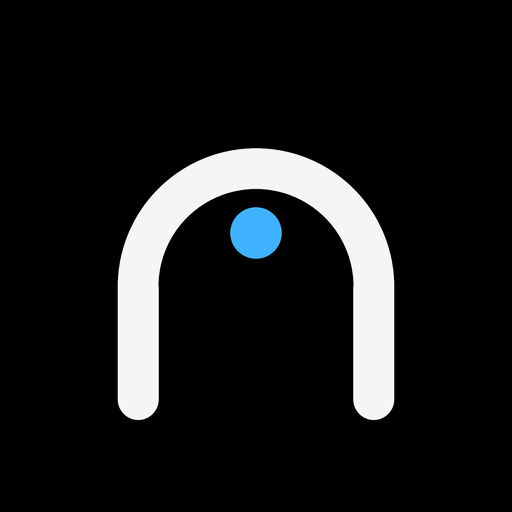
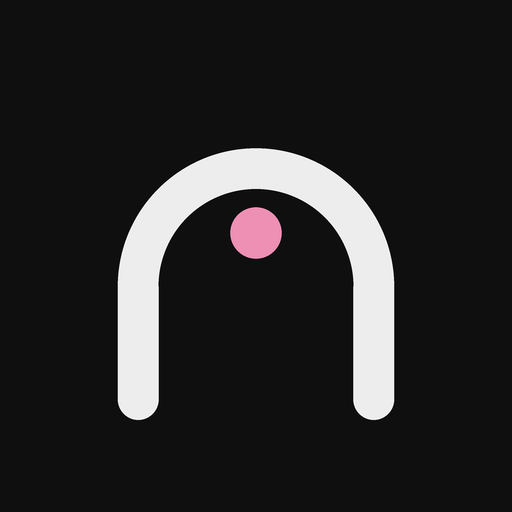
v26: unslop: grafite neutra, accento rosa, barra di stato silenziosa, pulsanti senza bordo, punto apex come firma
Claude-Session: https://claude.ai/code/session_01X4gRSprddSRZNLrU3V1q9a

Changed region(s): [[0.4375, 0.4062, 0.5625, 0.5312]]

diff --git a/index.html b/index.html
@@ -10,31 +10,31 @@
 <link rel="icon" href="icon-192.png">
 <link href="https://fonts.googleapis.com/css2?family=Exo+2:wght@600;700;800&family=Barlow+Condensed:wght@600;700;800&family=Barlow:wght@500;600;700&display=swap" rel="stylesheet">
 <style>
-html,body{margin:0;height:100%;background:#000;color:#fff;overflow:hidden;touch-action:none;-webkit-user-select:none;user-select:none;font-family:"Barlow Condensed","Roboto Condensed",sans-serif}
+html,body{margin:0;height:100%;background:#0f0f10;color:#ededed;overflow:hidden;touch-action:none;-webkit-user-select:none;user-select:none;font-family:"Barlow Condensed","Roboto Condensed",sans-serif}
 #app{position:fixed;top:0;left:0;right:0;bottom:0;width:100%;height:100%;display:flex;align-items:stretch;justify-content:center;box-sizing:border-box;padding:env(safe-area-inset-top) env(safe-area-inset-right) env(safe-area-inset-bottom) env(safe-area-inset-left)}
 #stage{flex:1 1 auto;min-width:0;min-height:0;display:flex;align-items:center;justify-content:center;overflow:hidden}
-canvas{display:block;background:#000;touch-action:none}
-#demo{display:none;flex-direction:column;align-items:stretch;width:92px;padding:8px;box-sizing:border-box;align-self:stretch;justify-content:center;background:#000;border-left:1px solid #26313b}
+canvas{display:block;background:#0f0f10;touch-action:none}
+#demo{display:none;flex-direction:column;align-items:stretch;width:92px;padding:8px;box-sizing:border-box;align-self:stretch;justify-content:center;background:#19191b;border-left:1px solid rgba(237,237,237,.09)}
 #demo.on{display:flex}
 #demo>*+*{margin-top:8px}
-#demo button{font:700 20px "Barlow",sans-serif;min-height:50px;padding:0 4px;border-radius:6px;border:1.5px solid #26313b;background:transparent;color:#fff}
-#demo .go{background:transparent;color:#4cb8ff;border-color:#3fb2ff}
-#demo small{color:#9aa3ad;font:600 13px "Barlow",sans-serif;text-align:center}
+#demo button{font:600 18px "Barlow",sans-serif;min-height:44px;padding:0 4px;border-radius:8px;border:0;background:#232325;color:#ededed}
+#demo .go{background:#ededed;color:#0f0f10}
+#demo small{color:#85858b;font:500 13px "Barlow",sans-serif;text-align:center}
 @media (orientation:portrait){#app{flex-direction:column}#demo>*+*{margin-top:0;margin-left:8px}#demo{flex-direction:row;flex-wrap:wrap;justify-content:center;width:auto;align-self:stretch}}
 </style>
 </head>
 <body>
-<div id="loading" style="position:fixed;top:0;left:0;right:0;bottom:0;display:flex;align-items:center;justify-content:center;color:#ffd21a;font:700 22px sans-serif;text-align:center;padding:20px">ApexLap<br>caricamento…<br><small style="color:#888;font-size:15px">se resta così, chiudi e riapri con internet</small></div>
-<div id="ren" style="display:none;position:fixed;top:0;left:0;right:0;bottom:0;background:rgba(0,0,0,.88);z-index:5;align-items:center;justify-content:center;flex-direction:column;padding:16px;box-sizing:border-box">
-  <div style="color:#ffd21a;font:800 26px 'Barlow Condensed',sans-serif;margin-bottom:12px">Nome della pista</div>
-  <input id="renIn" maxlength="24" autocomplete="off" style="font:700 26px 'Barlow Condensed',sans-serif;width:min(460px,90vw);padding:10px 14px;border-radius:10px;border:2px solid #ffd21a;background:#111;color:#fff">
-  <div style="display:flex;margin-top:14px"><button id="renNo" style="font:700 22px 'Barlow Condensed',sans-serif;min-height:54px;min-width:140px;border-radius:10px;border:2px solid #555;background:#1b1b1b;color:#fff;margin-right:12px">ANNULLA</button><button id="renOk" style="font:700 22px 'Barlow Condensed',sans-serif;min-height:54px;min-width:140px;border-radius:10px;border:0;background:#ffd21a;color:#111">SALVA</button></div>
+<div id="loading" style="position:fixed;top:0;left:0;right:0;bottom:0;display:flex;align-items:center;justify-content:center;color:#ededed;font:600 22px 'Barlow',sans-serif;text-align:center;padding:20px">ApexLap<br><small style="color:#a1a1a6;font:500 15px 'Barlow',sans-serif">caricamento…<br>se resta così, chiudi e riapri con internet</small></div>
+<div id="ren" style="display:none;position:fixed;top:0;left:0;right:0;bottom:0;background:rgba(15,15,16,.94);z-index:5;align-items:center;justify-content:center;flex-direction:column;padding:16px;box-sizing:border-box">
+  <div style="color:#a1a1a6;font:500 15px 'Barlow',sans-serif;margin-bottom:8px">Nome della pista</div>
+  <input id="renIn" maxlength="24" autocomplete="off" style="font:600 24px 'Barlow',sans-serif;width:min(460px,90vw);padding:10px 14px;border-radius:10px;border:1px solid rgba(237,237,237,.12);background:#19191b;color:#ededed;outline:none;caret-color:#ee8fb4">
+  <div style="display:flex;margin-top:16px"><button id="renNo" style="font:600 17px 'Barlow',sans-serif;height:40px;min-width:120px;border-radius:8px;border:0;background:transparent;color:#ededed;margin-right:8px">Annulla</button><button id="renOk" style="font:600 17px 'Barlow',sans-serif;height:40px;min-width:120px;border-radius:8px;border:0;background:#ededed;color:#0f0f10">Salva</button></div>
 </div>
 <div id="app">
   <div id="stage"><canvas id="scr" aria-label="Cronometro"></canvas></div>
   <div id="demo">
     <small>DEMO</small>
-    <button id="dGo" class="go">PARTI</button>
+    <button id="dGo" class="go">Parti</button>
     <button id="dFast" aria-label="Più veloce">+</button>
     <small id="dPace">ritmo 100%</small>
     <button id="dSlow" aria-label="Più lento">−</button>
@@ -76,7 +76,7 @@ class LapTimer{
 }
 
 // ===================== memoria =====================
-const VERSION='v25';const LS='ftt-app-v1';let saved={tracks:[],view:0,minLap:8,source:'phone',session:null,showSpeed:false,theme:'auto'};
+const VERSION='v26';const LS='ftt-app-v1';let saved={tracks:[],view:0,minLap:8,source:'phone',session:null,showSpeed:false,theme:'auto'};
 try{const j=JSON.parse(localStorage.getItem(LS)||'null');if(j)saved={...saved,...j}}catch(e){}
 const persist=()=>{try{localStorage.setItem(LS,JSON.stringify(saved))}catch(e){}};
 saved.tracks.forEach((t,i)=>{if(!t.name)t.name='Pista '+(i+1)});
@@ -221,7 +221,7 @@ function setSource(src){saved.source=src;persist();origin=null;dev.hist=[];lt.cl
   else{$('demo').classList.remove('on');demo.riding=false;
     if(src==='ble'){if(!ble.on)startPhoneGps();bleConnect()}else{bleClose();startPhoneGps()}}
   setTimeout(resize,30)}
-$('dGo').onclick=()=>{demo.riding=!demo.riding;$('dGo').textContent=demo.riding?'STOP':'PARTI';$('dGo').classList.toggle('go',!demo.riding)};
+$('dGo').onclick=()=>{demo.riding=!demo.riding;$('dGo').textContent=demo.riding?'Ferma':'Parti';$('dGo').classList.toggle('go',!demo.riding)};
 $('dFast').onclick=()=>{demo.pace=Math.min(1.15,demo.pace+0.02);$('dPace').textContent='ritmo '+Math.round(demo.pace*100)+'%'};
 $('dSlow').onclick=()=>{demo.pace=Math.max(0.85,demo.pace-0.02);$('dPace').textContent='ritmo '+Math.round(demo.pace*100)+'%'};
 
@@ -249,16 +249,16 @@ async function goFull(){if(triedFull)return;triedFull=true;try{await document.do
 // ===================== disegno =====================
 const cv=$('scr'),cx=cv.getContext('2d');
 // SERA: nero, testi chiari (niente abbagliamento al buio). GIORNO: bianco, testi neri (vince sui riflessi al sole)
-const NIGHT={bg:'#000000',surface:'#000000',line:'#26313b',frame:'#2d7fbf',fg:'#ffffff',dim:'#8d99a5',faint:'#56616b',off:'#1d252d',
-  accent:'#3fb2ff',accentDown:'#1f8fd6',accentTxt:'#4cb8ff',onAccent:'#001018',
-  gain:'#22d36b',gainTxt:'#2fe07a',gainDeep:'#0b7a37',gainWash:'rgba(34,211,107,.10)',
-  loss:'#ff453a',lossTxt:'#ff6b61',lossDeep:'#a3160e',
-  btn:'#000000',btnDown:'rgba(63,178,255,.16)',chart:'#3a4652',selWash:'rgba(63,178,255,.12)'};
-const DAY={bg:'#ffffff',surface:'#ffffff',line:'#cfd7df',frame:'#1f78c4',fg:'#05080b',dim:'#46525e',faint:'#87929d',off:'#e1e6eb',
-  accent:'#0a74c9',accentDown:'#075a9c',accentTxt:'#0a63ad',onAccent:'#ffffff',
-  gain:'#15a046',gainTxt:'#0b7d38',gainDeep:'#0b7a37',gainWash:'rgba(21,160,70,.10)',
-  loss:'#d92a20',lossTxt:'#c0221b',lossDeep:'#a3160e',
-  btn:'#ffffff',btnDown:'rgba(10,116,201,.12)',chart:'#aab4be',selWash:'rgba(10,116,201,.10)'};
+const NIGHT={bg:'#0f0f10',surface:'#19191b',line:'rgba(237,237,237,.09)',frame:'#a1a1a6',fg:'#ededed',dim:'#a1a1a6',faint:'#85858b',off:'#29292c',
+  accent:'#ee8fb4',accentDown:'#d97aa0',accentTxt:'#f2a3c3',onAccent:'#1a0d12',warn:'#d9a441',
+  gain:'#4cc38a',gainTxt:'#5fd49a',gainDeep:'#17784a',gainWash:'rgba(76,195,138,.08)',
+  loss:'#e5484d',lossTxt:'#ff6369',lossDeep:'#a3262a',
+  btn:'#232325',btnDown:'#2e2e31',chart:'#3a3a3e',selWash:'rgba(237,237,237,.06)'};
+const DAY={bg:'#fafafa',surface:'#ffffff',line:'rgba(23,23,23,.10)',frame:'#525252',fg:'#171717',dim:'#525252',faint:'#737373',off:'#e4e4e7',
+  accent:'#c94f84',accentDown:'#b2416f',accentTxt:'#b23d70',onAccent:'#ffffff',warn:'#b45309',
+  gain:'#16a34a',gainTxt:'#15803d',gainDeep:'#15803d',gainWash:'rgba(22,163,74,.08)',
+  loss:'#dc2626',lossTxt:'#b91c1c',lossDeep:'#991b1b',
+  btn:'#ececee',btnDown:'#e0e0e3',chart:'#c4c4c8',selWash:'rgba(23,23,23,.05)'};
 // altezza del sole sull'orizzonte (gradi) per posizione e ora: serve alla modalità AUTO
 function sunElev(lat,lon,d){const r=Math.PI/180,n=d.getTime()/86400000+2440587.5-2451545;
   const Lm=(280.46+0.9856474*n)%360,g=((357.528+0.9856003*n)%360)*r,lam=(Lm+1.915*Math.sin(g)+0.02*Math.sin(2*g))*r,eps=(23.439-0.0000004*n)*r;
@@ -289,7 +289,7 @@ addEventListener('resize',resize);document.addEventListener('fullscreenchange',(
 // numeri in Exo 2 (sportivo, da cruscotto); Barlow Condensed resta come riserva se il font non è ancora scaricato
 const FN=(s,w=700)=>`${w} ${s}px "Exo 2","Barlow Condensed","Roboto Condensed","Arial Narrow",sans-serif`;
 try{['600','700','800'].forEach(w=>document.fonts.load(w+' 40px "Exo 2"'))}catch(e){}
-const FL=(s,w=600)=>`${w} ${s}px "Barlow","Roboto","Helvetica Neue",sans-serif`;
+const FL=(s,w=500)=>`${Math.min(w,600)} ${s}px "Barlow","Roboto","Helvetica Neue",sans-serif`;
 const F=FN;
 let hits=[],pressed=null;
 function txt(t,x,y,size,col,al='left',w=600,fam='l'){cx.font=fam==='n'?FN(size,w):FL(size,w);cx.fillStyle=col;cx.textAlign=al;cx.textBaseline='middle';cx.fillText(t,x,y)}
@@ -332,11 +332,12 @@ function icon(name,x,y,s,col){cx.save();cx.translate(x,y);cx.strokeStyle=col;cx.
 function panel(x,y,w,h,label,labelR,col,colR){const lc=(col&&col!==C.line&&col!==C.frame)?col:C.dim;
   if(label)txt(label,x+6,y+4,12,lc,'left',600);if(labelR)txt(labelR,x+w-6,y+4,12,colR||lc,'right',600)}
 function button(id,x,y,w,h,label,opt={}){const down=pressed===id,dis=opt.disabled;
-  let bg=down?C.btnDown:null,fg=dis?C.faint:C.fg,stroke=dis?C.off:C.line;
-  if(opt.primary&&!dis){stroke=C.accent;fg=C.accentTxt}
-  else if(opt.danger){stroke=C.loss;fg=C.lossTxt}
-  else if(opt.ghost){stroke=null}
-  rr(x,y,w,h,6,bg,stroke,1.5);
+  let bg=down?C.btnDown:C.btn,fg=dis?C.faint:C.fg;
+  if(opt.primary&&!dis){bg=down?C.dim:C.fg;fg=C.bg}
+  else if(opt.danger){fg=C.lossTxt}
+  else if(opt.ghost){bg=down?C.btnDown:null}
+  if(dis&&!opt.ghost)bg=C.surface;
+  if(bg)rr(x,y,w,h,8,bg);
   const size=opt.size||17,ic=opt.icon,isz=Math.min(18,h*0.42);
   if(opt.sub){const cxm=x+w/2;if(ic)icon(ic,cxm,y+h*0.32,isz,dis?C.faint:C.accentTxt);
     fitT(label,cxm,ic?y+h*0.62:y+h/2-7,size,fg,w-12,'center',700);fitT(opt.sub,cxm,ic?y+h*0.84:y+h/2+11,12,C.dim,w-12,'center',500)}
@@ -344,9 +345,9 @@ function button(id,x,y,w,h,label,opt={}){const down=pressed===id,dis=opt.disable
     if(ic)icon(ic,sx+isz/2,y+h/2,isz,fg);if(label)fitT(label,sx+(ic?isz+gap:0),y+h/2+1,size,fg,w-(ic?isz+22:14),'left',700)}
   hits.push({id,x,y,w,h,act:opt.act,dis})}
 // controllo segmentato (opzioni alternative)
-function segmented(id,x,y,w,h,opts,cur,set){const n=opts.length,sw=w/n;rr(x,y,w,h,6,null,C.line,1.5);
-  opts.forEach(([l,v],k)=>{const sx=x+k*sw,sel=cur===v;if(sel)rr(sx+2,y+2,sw-4,h-4,5,C.selWash,C.accent,1.5);else if(k&&cur!==opts[k-1][1])cx.fillStyle=C.line,cx.fillRect(sx,y+7,1,h-14);
-    fitT(l,sx+sw/2,y+h/2+1,15,sel?C.accentTxt:C.dim,sw-8,'center',700);hits.push({id:id+k,x:sx,y,w:sw,h,act:()=>set(v)})})}
+function segmented(id,x,y,w,h,opts,cur,set){const n=opts.length,sw=w/n;rr(x,y,w,h,8,C.surface);
+  opts.forEach(([l,v],k)=>{const sx=x+k*sw,sel=cur===v;if(sel)rr(sx+3,y+3,sw-6,h-6,6,C.btn);
+    fitT(l,sx+sw/2,y+h/2+1,15,sel?C.accentTxt:C.dim,sw-8,'center',sel?600:500);hits.push({id:id+k,x:sx,y,w:sw,h,act:()=>set(v)})})}
 
 const pad2=v=>String(v).padStart(2,'0');
 // tempo sul giro: 1:24.234 (millesimi) oppure 1:24.23 (centesimi) a scelta nelle opzioni
@@ -364,25 +365,25 @@ const sgn=v=>(v<0?'−':'+')+Math.abs(v).toFixed(2);
 const SB=24,TB=36;
 function statusBar(center,lapTxt){
   hline(0,SB-1,W,C.line);
-  const col=!dev.fix?C.loss:dev.hAcc>8?C.accentTxt:C.gainTxt;
+  const col=!dev.fix?C.lossTxt:dev.hAcc>8?C.warn:C.dim;
   for(let i=0;i<4;i++){const h=4+i*3,on=dev.fix&&dev.sats>=[1,5,9,12][i];cx.fillStyle=on?col:C.off;cx.fillRect(8+i*5,19-h,3,h)}
-  txt(dev.fix?`±${Math.round(dev.hAcc)} m`:'Nessun GPS',32,12,13,col,'left',600);
+  txt(dev.fix?`±${Math.round(dev.hAcc)} m`:'Nessun GPS',32,12,13,col,'left',500);
   let lx=32+(cx.measureText(dev.fix?`±${Math.round(dev.hAcc)} m`:'Nessun GPS').width)+10;
-  if(saved.source==='demo'){const open=$('demo').classList.contains('on');rr(lx,5,42,15,4,open?C.accent:null,C.accentTxt);txt('Demo',lx+21,12.5,12,open?C.onAccent:C.accentTxt,'center',700);
+  if(saved.source==='demo'){const open=$('demo').classList.contains('on');txt('Demo',lx+4,12,13,open?C.fg:C.accentTxt,'left',600);if(open)hline(lx+4,19,30,C.accentTxt);
     hits.push({id:'demoBadge',x:lx-6,y:0,w:56,h:SB+4,act:toggleDemoPanel});lx+=50}
-  if(saved.source==='ble'){const lbl=ble.on?(ble.hz?ble.hz+' Hz':'Esterno'):'Collega GPS',col2=ble.on?C.gainTxt:C.accentTxt;cx.font=FL(12,700);const bw=cx.measureText(lbl).width+12;
-    rr(lx,5,bw,15,4,null,col2);txt(lbl,lx+bw/2,12.5,12,col2,'center',700);
+  if(saved.source==='ble'){const lbl=ble.on?(ble.hz?ble.hz+' Hz':'Esterno'):'Collega GPS',col2=ble.on?C.dim:C.accentTxt;cx.font=FL(13,600);const bw=cx.measureText(lbl).width+8;
+    txt(lbl,lx+4,12,13,col2,'left',600);
     if(!ble.on)hits.push({id:'bleBadge',x:lx-6,y:0,w:bw+12,h:SB+4,act:bleConnect});lx+=bw+8}
-  if(center)fitT(center,W/2,12,14,C.fg,Math.max(60,W-2*Math.max(lx,110)),'center',700);
+  if(center)fitT(center,W/2,12,14,C.fg,Math.max(60,W-2*Math.max(lx,110)),'center',600);
   let rx=W-8;
   if(dev.battery!=null){const b=Math.round(dev.battery);rr(rx-22,7,20,10,2,null,C.dim);cx.fillStyle=C.dim;cx.fillRect(rx-2,10,2,4);
-    cx.fillStyle=b<20?C.loss:dev.charging?C.gainTxt:C.fg;cx.fillRect(rx-20,9,16*b/100,6);rx-=28}
+    cx.fillStyle=b<20?C.loss:C.dim;cx.fillRect(rx-20,9,16*b/100,6);rx-=28}
   const dt=new Date(),hm=pad2(dt.getHours())+':'+pad2(dt.getMinutes());num(hm,rx,12.5,14,C.dim,'right',600);rx-=numMetrics(hm,14,600).tot+12;
   if(lapTxt){num(lapTxt,rx,12.5,16,C.fg,'right',700)}}
 // intestazione delle sottoschermate: ‹ titolo
 function header(title,backAct,right){
   button('back',4,SB+4,40,32,'',{ghost:true,icon:'back',act:backAct});
-  txt(title,46,SB+20,20,C.fg,'left',700);
+  txt(title,46,SB+20,18,C.fg,'left',600);
   if(right)txt(right,W-12,SB+20,13,C.dim,'right',500);
   hline(0,SB+40,W,C.line)}
 // barra schede in basso (riepilogo)
@@ -396,11 +397,11 @@ function tabBar(){const th=TB,y=H-th,tw=W/3,n=lt.laps.length;hline(0,y,W,C.line)
     hits.push({id,x,y,w:tw,h:th,act})})}
 // ---------- avvio ----------
 function drawBoot(){statusBar('','');
-  txt('ApexLap',W/2,70,44,C.fg,'center',800,'n');txt('Cronometro GPS da pista',W/2,102,16,C.dim,'center',500);
+  txt('ApexLap',W/2,70,40,C.fg,'center',600);txt('Cronometro GPS da pista',W/2,102,16,C.dim,'center',500);
   txt(VERSION,W-8,H-10,11,C.faint,'right',500);
   if(dev.geoErr){fitT(dev.geoErr,W/2,140,16,C.loss,W-20,'center',600);
     button('demo1',W/2-110,166,220,46,'Prova in demo',{primary:true,icon:'play',act:()=>setSource('demo')})}
-  else{const p=dev.lastT?Math.max(0.15,Math.min(1,25/dev.hAcc)):((now()-dev.startedAt)/900%1);rr(W/2-100,132,200,4,2,C.off);rr(W/2-100,132,Math.max(8,200*p),4,2,C.gain);
+  else{const p=dev.lastT?Math.max(0.15,Math.min(1,25/dev.hAcc)):((now()-dev.startedAt)/900%1);rr(W/2-100,132,200,4,2,C.off);rr(W/2-100,132,Math.max(8,200*p),4,2,C.accent);
     fitT(dev.lastT?`Precisione ±${Math.round(dev.hAcc)} m, serve meno di 25 m`:'Cerco il segnale GPS, stai all\'aperto',W/2,152,14,C.dim,W-20,'center',500);
     button('demo2',W/2-60,180,120,36,'Demo',{icon:'play',act:()=>setSource('demo'),size:15})}}
 
@@ -414,7 +415,7 @@ function drawChart(x,y,w,h){const L=lt.laps.slice(-12),n=L.length;if(!n)return;
 
 // ---------- riepilogo da fermo ----------
 function drawReady(){statusBar(trackName()||'','');const n=lt.laps.length,top=SB,bot=H-TB,tk=saved.tracks[dev.track];
-  if(!lt.line){icon('flag',W/2,top+34,26,C.accentTxt);txt('Nessun traguardo',W/2,top+64,22,C.fg,'center',700);
+  if(!lt.line){icon('flag',W/2,top+34,26,C.dim);txt('Nessun traguardo',W/2,top+64,22,C.fg,'center',700);
     txt('Fermati sulla linea e impostalo, oppure scegli una pista salvata',W/2,top+86,13,C.dim,'center',500);
     const hasT=saved.tracks.length,bw=hasT?Math.min(200,(W-40)/2):Math.min(260,W-40),x0=hasT?W/2-bw-6:W/2-bw/2;
     button('setline',x0,top+108,bw,44,'Imposta traguardo',{primary:true,icon:'flag',act:startWizard,size:16});
@@ -462,8 +463,8 @@ function drawRace(){
     hits.push({id:'flash',x:0,y:SB,w:W,h:H-SB,act:()=>dev.flashUntil=0});return}
   let top=SB;
   if(lost){cx.fillStyle=C.lossDeep;cx.fillRect(0,SB,W,24);fitT('GPS perso: tempi sospesi finché torna il segnale',W/2,SB+12,13,'#ffffff',W-20,'center',700);top+=24}
-  if(!lt.line){icon('flag',W/2,top+56,28,C.accentTxt);txt('Nessun traguardo',W/2,top+92,24,C.fg,'center',700);txt('Fermati per impostarlo',W/2,top+116,14,C.dim,'center',500);return}
-  if(!lt.inLap){icon('arrowR',W/2,top+60,34,C.accentTxt);txt('Passa sul traguardo',W/2,top+100,28,C.fg,'center',700);txt('Il giro parte appena lo attraversi',W/2,top+126,14,C.dim,'center',500);return}
+  if(!lt.line){icon('flag',W/2,top+56,28,C.dim);txt('Nessun traguardo',W/2,top+92,24,C.fg,'center',700);txt('Fermati per impostarlo',W/2,top+116,14,C.dim,'center',500);return}
+  if(!lt.inLap){icon('arrowR',W/2,top+60,34,C.dim);txt('Passa sul traguardo',W/2,top+100,28,C.fg,'center',700);txt('Il giro parte appena lo attraversi',W/2,top+126,14,C.dim,'center',500);return}
   const view=saved.view,cellsY=184,valid=lt.deltaValid,d=lt.delta,dc=d<0?C.gainTxt:C.lossTxt;
   ledBar(top+6,d,valid);
   const py=top+28,ph=cellsY-py,mid=py+ph/2+4;
@@ -508,7 +509,7 @@ function drawLaps(){statusBar('','');const L=lt.laps,n=L.length;
   for(let r=0;r<n;r++){const y=top+r*rh-off;if(y+rh<top||y>H)continue;const i=n-1-r,ms=L[i],isB=i+1===lt.bestNo,cy=y+rh/2;
     if(isB){cx.fillStyle=C.gainWash;cx.fillRect(0,y,W,rh)}
     num(String(i+1),36,cy,15,C.dim,'right',600);num(fmt(ms),48,cy,21,isB?C.gainTxt:C.fg,'left',700);
-    if(i===n-1&&!isB){const tw=numMetrics(fmt(ms),21,700).tot;rr(58+tw,cy-8,46,16,3,null,C.dim);txt('Ultimo',81+tw,cy+0.5,11,C.dim,'center',600)}
+    if(i===n-1&&!isB){const tw=numMetrics(fmt(ms),21,700).tot;txt('ultimo',58+tw,cy+1,12,C.faint,'left',500)}
     if(isB)txt('Migliore',W-14,cy,13,C.gainTxt,'right',700);else num(gap((ms-bestMs)/1000),W-14,cy,17,C.lossTxt,'right',600);
     hline(12,y+rh-1,W-24,C.line)}
   endList('scroll',0,top,W,ah,n*rh)}
@@ -529,7 +530,7 @@ function drawWizard(){statusBar('','');
     button('wok',W/2-50,H-46,220,36,'Sono sulla linea',{primary:true,icon:'check',size:15,disabled:moving||!dev.fix,act:()=>{dev.pend={lat:dev.gps.lat,lon:dev.gps.lon};dev.wiz=2}})}
   else if(dev.wiz===2){txt('Ora parti in avanti',16,top+26,22,C.fg,'left',700);
     txt('Dopo 8 metri prendo la direzione di marcia da solo',16,top+50,14,C.dim,'left',500);
-    const a=(now()/700)%1;for(let i=0;i<3;i++){const x=40+((a+i/3)%1)*(W-110);icon('arrowR',x,top+100,30,C.accentTxt)}
+    const a=(now()/700)%1;for(let i=0;i<3;i++){const x=40+((a+i/3)%1)*(W-110);icon('arrowR',x,top+100,30,C.faint)}
     button('wcancel2',W/2-55,H-46,110,36,'Annulla',{ghost:true,act:()=>{dev.screen='ready';dev.wiz=0},size:15})}
   else{icon('check',W/2,top+46,40,C.gainTxt);txt(dev.wizNew?'Pista salvata':'Traguardo aggiornato',W/2,top+92,24,C.fg,'center',700);
     txt(dev.wizNew?`${trackName()}: puoi rinominarla da Piste`:`${trackName()}: nome e record restano`,W/2,top+118,14,C.dim,'center',500)}}
@@ -544,19 +545,19 @@ function drawTracks(){statusBar('','');const T=saved.tracks,n=T.length;
   header('Piste',()=>dev.screen='ready','');
   if(n){cx.font=FL(20,700);txt(n===1?'1 salvata':`${n} salvate`,58+cx.measureText('Piste').width,SB+21,13,C.dim,'left',500)}
   button('tnew',W-44,SB+5,36,30,'',{ghost:true,icon:'plus',act:startWizard});
-  const top=SB+41,rh=34,ah=H-52-top;
+  const top=SB+41,rh=36,ah=H-52-top;
   if(!n){scrollZone=null;icon('pin',W/2,top+40,24,C.faint);txt('Nessuna pista salvata',W/2,top+70,16,C.fg,'center',600);
     txt('Tocca + o imposta un traguardo: la pista si salva da sola',W/2,top+92,13,C.dim,'center',500)}
   const off=n?listArea('tscroll',0,top,W,ah,n*rh):0,acts=[];
   for(let i=0;i<n;i++){const t=T[i],y=top+i*rh-off;if(y+rh<top||y>top+ah)continue;const sel=i===dev.tsel,act=i===dev.track,cy=y+rh/2;
-    if(sel){cx.fillStyle=C.selWash;cx.fillRect(0,y,W,rh);cx.fillStyle=C.accent;cx.fillRect(0,y+4,3,rh-8)}
+    if(sel){cx.fillStyle=C.selWash;cx.fillRect(0,y,W,rh)}
     const dist=dev.gps&&dev.gps.lat?hav(dev.gps.lat,dev.gps.lon,t.lat,t.lon):null;
     const ds=dist==null?'':dist<1000?`${Math.round(dist)} m`:`${(dist/1000).toFixed(dist<10000?1:0)} km`;
     const colRec=sel?W-136:W-74;
     num(t.record?fmt(t.record):'--',colRec,cy,18,t.record?C.gainTxt:C.faint,'right',700);
     if(!sel)txt(ds,W-14,cy,13,C.dim,'right',500);
     const maxName=colRec-86-14;let nm=t.name;cx.font=FL(16,700);while(cx.measureText(nm).width>maxName&&nm.length>3)nm=nm.slice(0,-2)+'…';
-    txt(nm,14,cy-(ds&&sel?0:0),16,C.fg,'left',700);if(act){const w=cx.measureText(nm).width;rr(20+w,cy-7,44,14,3,null,C.accentTxt);txt('In uso',42+w,cy+0.5,10,C.accentTxt,'center',700)}
+    txt(nm,22,cy,16,C.fg,'left',600);if(act){cx.beginPath();cx.arc(11,cy,3.5,0,7);cx.fillStyle=C.accent;cx.fill()}
     hline(12,y+rh-1,W-24,C.line);const vy=Math.max(y,top),vh=Math.min(y+rh,top+ah)-vy;if(vh>4)hits.push({id:'trow'+i,x:0,y:vy,w:W,h:vh,act:()=>dev.tsel=i});
     if(sel&&y>=top-2&&y+rh<=top+ah+2)acts.push(y)}
   if(n)endList('tscroll',0,top,W,ah,n*rh);
@@ -583,7 +584,7 @@ function drawTraceMini(tk,x,y,w,h){const tr=tk.trace,g=traceGeom(tr),sc=Math.min
   cx.lineCap='round';cx.lineJoin='round';
   for(let i=1;i<g.P.length;i++){cx.beginPath();cx.moveTo(ox+g.P[i-1][0]*sc,oy-g.P[i-1][1]*sc);cx.lineTo(ox+g.P[i][0]*sc,oy-g.P[i][1]*sc);
     cx.strokeStyle=spdCol((g.P[i][2]-g.v0)/vr);cx.lineWidth=2.5;cx.stroke()}
-  const kx=R*D2R*Math.cos(tr.o[0]*D2R),ky=R*D2R;cx.beginPath();cx.arc(ox+(tk.lon-tr.o[1])*kx*sc,oy-(tk.lat-tr.o[0])*ky*sc,3.5,0,7);cx.fillStyle=C.fg;cx.fill()}
+  const kx=R*D2R*Math.cos(tr.o[0]*D2R),ky=R*D2R;cx.beginPath();cx.arc(ox+(tk.lon-tr.o[1])*kx*sc,oy-(tk.lat-tr.o[0])*ky*sc,4,0,7);cx.fillStyle=C.accent;cx.fill()}
 function drawTrackMap(){statusBar('','');const tk=saved.tracks[dev.tsel],tr=tk&&tk.trace;
   header(tk?tk.name:'Pista',()=>dev.screen='tracks','');
   const top=SB+44;
@@ -599,7 +600,7 @@ function drawTrackMap(){statusBar('','');const tk=saved.tracks[dev.tsel],tr=tk&&
     cx.strokeStyle=spdCol((P[i][2]-v0)/vr);cx.lineWidth=4;cx.stroke()}
   // traguardo (posizione attuale della pista, riportata nel riferimento del tracciato) con il senso di marcia
   const kx=R*D2R*Math.cos(tr.o[0]*D2R),ky=R*D2R,sx=X((tk.lon-tr.o[1])*kx),sy=Y((tk.lat-tr.o[0])*ky),h=tk.heading*D2R,dx=Math.sin(h),dy=-Math.cos(h),nx=-dy,ny=dx;
-  cx.beginPath();cx.moveTo(sx-nx*13,sy-ny*13);cx.lineTo(sx+nx*13,sy+ny*13);cx.strokeStyle=C.fg;cx.lineWidth=3;cx.stroke();
+  cx.beginPath();cx.moveTo(sx-nx*13,sy-ny*13);cx.lineTo(sx+nx*13,sy+ny*13);cx.strokeStyle=C.fg;cx.lineWidth=2;cx.stroke();cx.beginPath();cx.arc(sx,sy,5,0,7);cx.fillStyle=C.accent;cx.fill();
   const ax=sx+dx*16,ay=sy+dy*16;cx.beginPath();cx.moveTo(ax+dx*7,ay+dy*7);cx.lineTo(ax-dx*3+nx*5,ay-dy*3+ny*5);cx.lineTo(ax-dx*3-nx*5,ay-dy*3-ny*5);cx.closePath();cx.fillStyle=C.fg;cx.fill();
   // legenda velocità
   const ly=H-14,lx0=mx+60,lw=mw-120;for(let i=0;i<lw;i+=2){cx.fillStyle=spdCol(i/lw);cx.fillRect(lx0+i,ly-3,2,6)}
@@ -623,7 +624,7 @@ function shareLaps(){const L=lt.laps;if(!L.length){toast('Nessun giro da condivi
 
 // ---------- opzioni ----------
 function drawSettings(){statusBar('','');header('Opzioni',()=>dev.screen='ready',VERSION);
-  const top=SB+41,rh=34.8,cw=Math.min(240,W-150),cx0=W-12-cw,ext=saved.source==='ble',nRows=ext?8:7,ah=H-top,content=nRows*rh+4;
+  const top=SB+41,rh=36,cw=Math.min(240,W-150),cx0=W-12-cw,ext=saved.source==='ble',nRows=ext?8:7,ah=H-top,content=nRows*rh+4;
   const off=listArea('sscroll',0,top,W,ah,content),h0=hits.length;let i=0;
   const row=(lbl,hint)=>{const y=top+1+i*rh-off;txt(lbl,14,y+rh/2-(hint?6:0),16,C.fg,'left',600);if(hint)txt(hint,14,y+rh/2+9,11,C.dim,'left',500);
     if(i<nRows-1)hline(12,y+rh,W-24,C.line);i++;return y+4};
@@ -657,7 +658,7 @@ function render(){Object.assign(C,isDay()?DAY:NIGHT);document.body.style.backgro
   else if(s==='confirmSwitch')drawConfirm('Cambiare pista?',`I ${lt.laps.length} giri di questa sessione vengono azzerati`,'Cambia pista',()=>{lt.resetSession();saveSession();useTrack(dev.tsel);dev.screen='ready';toast(saved.tracks[dev.tsel].name+' selezionata')},'tracks');
   else if(s==='confirmDel'){const t=saved.tracks[dev.tsel];drawConfirm(`Cancellare ${t?t.name:'la pista'}?`,t&&t.record?`Si perde anche il record (${fmt(t.record)})`:'Il traguardo salvato viene eliminato','Cancella',()=>{const i=dev.tsel;saved.tracks.splice(i,1);persist();
     if(i===dev.track){lt.clearLine();dev.track=-1}else if(i<dev.track)dev.track--;dev.tsel=Math.min(i,saved.tracks.length-1);dev.screen='tracks';toast('Pista cancellata')},'tracks')}
-  if(dev.toast&&now()<dev.toastUntil){cx.font=FL(15,700);const w=cx.measureText(dev.toast).width+32;rr((W-w)/2,SB+6,w,28,6,C.bg,C.accent,1.5);txt(dev.toast,W/2,SB+20.5,15,C.accentTxt,'center',700)}}
+  if(dev.toast&&now()<dev.toastUntil){cx.font=FL(15,700);const w=cx.measureText(dev.toast).width+32;rr((W-w)/2,SB+8,w,28,8,C.btn);txt(dev.toast,W/2,SB+22.5,15,C.fg,'center',600)}}
 
 function autoScreens(){const s=dev.screen;
   if(dev.lastT&&now()-dev.lastPerf>4000)dev.fix=false;     // nessun punto GPS da 4 s

diff --git a/sw.js b/sw.js
@@ -1,5 +1,5 @@
 // Fa funzionare l'app anche senza connessione (in pista spesso non c'è campo).
-const CACHE = 'ftt-v25';
+const CACHE = 'ftt-v26';
 const FILES = ['./', './index.html', './manifest.webmanifest', './icon-192.png', './icon-512.png'];
 
 self.addEventListener('install', e => {
